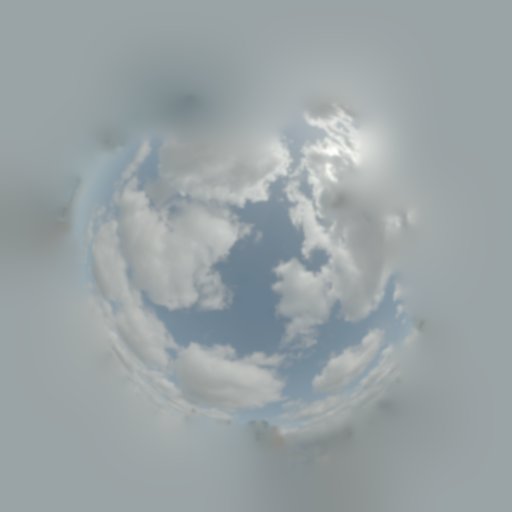
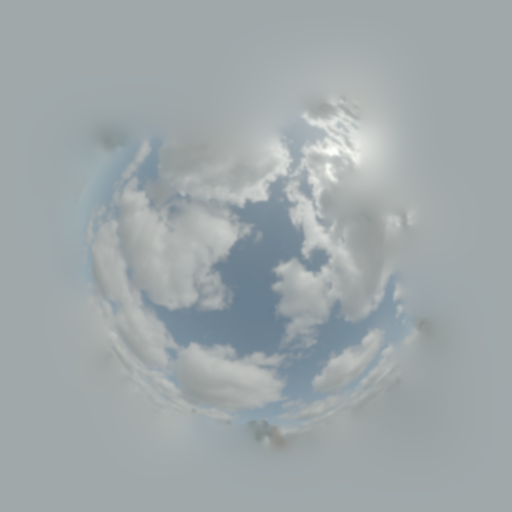
Lab: climb joiner round 3
Claude-Session: https://claude.ai/code/session_01RqENhngNCzDFmJWDZueXGV

diff --git a/src/app/lab/joiner/joinerEngine.js b/src/app/lab/joiner/joinerEngine.js
@@ -141,6 +141,24 @@ float skyWeight(vec2 uv, int r) {
   return smoothstep(0.3, 0.95, e);
 }
 
+// How far the open sky reaches from a structure, in plate pixels, read off
+// the same eroded matte out to r rings: each ring that is still clear of
+// structure adds its share (the ring's feathered weight), so the count runs
+// smoothly from 0 at a wall to r in open sky.
+float skyReach(vec2 uv, int r) {
+  vec2 t = 1.0 / vec2(textureSize(uMask, 0));
+  float e = texture(uMask, uv).r;
+  float n = 0.0;
+  for (int j = 1; j <= r; j++) {
+    for (int i = 0; i < 8; i++) {
+      float a = float(i) * 0.785398 + float(j) * 0.39;
+      e = min(e, texture(uMask, uv + vec2(cos(a), sin(a)) * t * float(j)).r);
+    }
+    n += smoothstep(0.3, 0.95, e);
+  }
+  return n;
+}
+
 void main() {
   vec2 s = vec2(vUv.x - 0.5, 0.5 - vUv.y) * 2.0 * uHalf;   // y down
   vec3 d = normalize(uC * uF + uR * s.x + uD * s.y);
@@ -167,6 +185,12 @@ void main() {
     vec3 moved = rad(texture(uCloud, uv2).rgb);
     vec3 still = rad(texture(uSky, uv).rgb);
     float cover = 1.0 - smoothstep(0.42, 0.6, (moved.b - moved.r) / (moved.b + 1e-4));
+    // The drifted deck knows nothing of the structures, so a cumulus moved
+    // up against a facade would end exactly on its outline as a white rim
+    // that traces the building. The cloud thins out over the last few plate
+    // pixels before any structure instead: there the open blue meets the
+    // wall, and the cloud edge lies a little off it, on its own shape.
+    cover *= smoothstep(1.0, 7.0, skyReach(uv, 7));
     vec3 sky = mix(still, moved, cover);
     // The structures' rims still hold the old sky: the anti-aliased edge, and
     // the band the eroded matte keeps back from a facade or a pole. Wherever
@@ -370,6 +394,9 @@ void main() {
   // is blurred over a disk about twelve plate pixels across before it is
   // used: a cloud's edge then thins out into the cobalt over the width a real
   // cumulus fringe has, instead of a paper cutout with a pale rim.
+  // Only taps on the sky matte count: a wall is no more cloud than it is
+  // blue, and read as cloud it would grade the strip of sky along every
+  // facade as a white rim that traces the building's outline.
   float aPix = clearKey(rawLin(vUv));
   float ak = aPix;
   float aw = 1.0;
@@ -378,8 +405,10 @@ void main() {
     float w = exp(-2.0 * float(j * j) / 9.0);
     for (int i = 0; i < 8; i++) {
       float a = float(i) * 0.785398 + float(j) * 0.26;
-      ak += w * clearKey(rawLin(vUv + r * vec2(cos(a), sin(a))));
-      aw += w;
+      vec2 p = vUv + r * vec2(cos(a), sin(a));
+      float wt = w * smoothstep(0.3, 0.9, texture(uRaw, p).a);
+      ak += wt * clearKey(rawLin(p));
+      aw += wt;
     }
   }
   ak /= aw;

diff --git a/tools/depth/bakes/joiner/holes.py b/tools/depth/bakes/joiner/holes.py
@@ -1,0 +1,266 @@
+# Fix the sky matte's topology: the replacement sky lands only in sky that is
+# actually open. segment.py, seal.py and grow.py work pixel by pixel, so the
+# matte still calls sky a good many enclosed islands that are no such thing:
+# the panes of a glass tower reflecting the Docklands sky, a slot of tinted
+# glazing in a facade. The engine repaints every one of them with the cumulus
+# deck, and on a print they read as flat sky-blue tiles pasted into the
+# glazing. Here the sky is taken apart into its connected components:
+#   - the open sky: the component round the zenith, kept as it is;
+#   - an enclosed island is kept only where its light is the old overcast's
+#     (overcast.webp, the Docklands plate's own sky filled under the
+#     structures): within about 0.3 stops in luminance and as low in chroma,
+#     so the real gaps in a crane lattice or a balcony rail stay sky. Glass
+#     that reflects the sky does so darker and tinted, and goes back to the
+#     structure with its own pixels; so does an island deep inside a facade
+#     (far from the open sky, with structure all round it), whatever its
+#     light, since a pane can reflect the overcast as bright as it is;
+#   - a speck of sky (under MINSKY plate px) whose edge is hard structure on
+#     more than TOUCH of its perimeter is no gap, only noise in a facade;
+#   - and the other way round, a fleck of structure wholly inside the open
+#     sky, small and with the overcast's light, is old sky the matte missed
+#     (it shows as a pale fleck floating in the new blue): it is given back;
+#   - and the old cloud the matte cut short of along a facade (bays) or left
+#     behind a rail (pockets), which shows as a white rim that traces the
+#     building, is given back to the open sky (see below).
+# overcast.webp is filled again from the new matte (skyplate.py's recipe, as
+# flip.py does), so the dark glass no longer feeds the rim reference.
+# Run last, after grow.py, seal.py and flip.py.
+# usage: python3 -I holes.py scene.webp mask.webp overcast.webp out-mask.webp out-overcast.webp [debug.png | -v]
+import sys, numpy as np, cv2
+from PIL import Image
+LO, HI, THMAX = -8.0, 5.0, 120.0
+LUMA = np.array([.2126, .7152, .0722], np.float32)
+DL = 0.3        # stops of luminance an open-sky island may sit from the overcast
+DC = 0.15       # stops of colour (log chroma against luminance) from it
+CHROMA = 0.15   # stops more chroma than the overcast it may carry
+DEEP = 10       # plate px of structure between an island and the open sky: a facade's
+RING = 0.85     # share of an island's 6 px ring that is structure, inside a facade
+MINSKY = 40     # plate px: a sky speck under this ...
+TOUCH = 0.7     # ... touching hard structure on more than this of its edge is dropped
+FLECK = 300     # plate px: a structure fleck inside the open sky under this may go back
+FLECK_DL = (-1.2, 2.0)  # stops from the overcast a fleck may sit: the overcast's own
+                # darker scud and its sunlit tops, never a lamp head or a bird
+FLECK_DC = 0.3  # stops of colour: a sunlit fleck is whiter than the overcast
+HARD = 0.1      # matte at or under this is hard structure
+BAY_REACH = 60  # plate px the open sky may be walked into the structure label
+BAY_EDGE = 0.3  # stops per plate px: a step across more than this is an outline
+BAY_DARK = 0.75 # stops under the sky beside it a pixel of old cloud may sit
+BAY_DEEP = 1.75 # ... and its grey underside, where it stands clear of the structure:
+BAY_OVER = 1.0  # stops over the mean of the structure round it
+BAY_WARM = 0.06  # warmth (r - b over r + b) the sunlit cloud by the sun reaches; paint
+                # and brick sit well over twice it, and the walk keeps 3 px off them
+BAY_CONTACT = 1.0  # contact with the open sky (px) over sqrt(area) a bay needs
+POCKET_MIN = 150  # plate px a pocket of old cloud needs (a lamp post's glint is smaller)
+POCKET_BRIGHT = 0.35  # stops over the sky beside it, on the whole
+POCKET_GAP = 3  # plate px from the sky (a rail's width)
+HORIZON = 89.4  # degrees from the zenith: the engine draws no sky past it (d.z > 0.01)
+
+scene = np.asarray(Image.open(sys.argv[1]).convert("RGB")).astype(np.float32) / 255
+m = np.asarray(Image.open(sys.argv[2]).convert("L")).astype(np.float32) / 255
+oc = np.asarray(Image.open(sys.argv[3]).convert("RGB")).astype(np.float32) / 255
+N = m.shape[0]
+logc = cv2.resize(LO + scene * (HI - LO), (N, N), interpolation=cv2.INTER_AREA)
+logo = cv2.resize(LO + oc * (HI - LO), (N, N), interpolation=cv2.INTER_CUBIC)
+ys, xs = np.mgrid[0:N, 0:N]
+th = np.hypot(xs + .5 - N / 2, ys + .5 - N / 2) / (N / 2) * THMAX
+disc = lambda r: cv2.getStructuringElement(cv2.MORPH_ELLIPSE, (2 * r + 1, 2 * r + 1))
+dil = lambda b, r: cv2.dilate(b.astype(np.uint8), disc(r)) > 0
+def labn_open(b):  # the connected piece of b at the zenith
+    _, l = cv2.connectedComponents(b.astype(np.uint8), connectivity=8)
+    return l == l[N // 2, N // 2]
+
+# the old sky's light at each pixel: luminance and colour against the overcast
+d = logc - logo
+dl = d @ LUMA
+cvec = d - dl[..., None]
+dch = (logc.max(-1) - logc.min(-1)) - (logo.max(-1) - logo.min(-1))
+
+sky = m > 0.5
+n, lab, st, _ = cv2.connectedComponentsWithStats(sky.astype(np.uint8), connectivity=8)
+area = st[:, cv2.CC_STAT_AREA].astype(np.float64)
+cnt = np.maximum(area, 1)
+mean = lambda x: np.bincount(lab.ravel(), x.ravel().astype(np.float64), n) / cnt
+# the open sky: the component at the zenith (and anything as big, if the
+# matte were ever split by a cable across the whole disk)
+main = np.zeros(n, bool)
+main[lab[N // 2, N // 2]] = True
+main[1:] |= area[1:] > 0.1 * area[lab[N // 2, N // 2]]
+main[0] = False
+opensky = main[lab]
+disk_area = np.pi * (N / 2) ** 2
+
+# how deep in structure each island sits: distance to the open sky, and the
+# share of a ring round it that is structure (another island counts as
+# structure here, so a pane among panes is still inside its facade)
+dist = cv2.distanceTransform((~opensky).astype(np.uint8), cv2.DIST_L2, 5)
+mind = np.full(n, np.inf)
+np.minimum.at(mind, lab.ravel(), dist.ravel())
+isl_any = sky & ~opensky
+ring_px = dil(isl_any, 6) & ~isl_any
+# per island ring share: label each ring pixel with the island it belongs to
+# (the nearest one, through a dilation of the label image)
+lab_isl = np.where(isl_any, lab, 0).astype(np.float32)
+near_lab = cv2.dilate(lab_isl, disc(6)).astype(np.int64)  # max label within 6 px
+rs = ring_px & (near_lab > 0)
+ring_n = np.bincount(near_lab[rs], minlength=n).astype(np.float64)
+ring_struct = np.bincount(near_lab[rs], (~opensky[rs]).astype(np.float64), minlength=n)
+ring_share = ring_struct / np.maximum(ring_n, 1)
+
+# an island's light is read on the whole (its mean against the overcast's), so
+# the dither and a ripple's texture do not count as colour
+mdl, mch = mean(dl), mean(dch)
+mcv = np.linalg.norm(np.stack([mean(cvec[..., i]) for i in range(3)], -1), axis=-1)
+matches = (np.abs(mdl) < DL) & (mcv < DC) & (mch < CHROMA)
+facade = (mind > DEEP) & (ring_share > RING) & (area < 0.005 * disk_area)
+keep = main | (matches & ~facade)
+keep[0] = False
+
+# sky specks touching hard structure on most of their edge
+hard = m <= HARD
+edge = dil(sky, 1) & ~sky
+# each edge pixel credited to the component next to it
+edge_lab = cv2.dilate(np.where(sky, lab, 0).astype(np.float32), np.ones((3, 3), np.uint8)).astype(np.int64)
+ee = edge & (edge_lab > 0)
+e_n = np.bincount(edge_lab[ee], minlength=n).astype(np.float64)
+e_hard = np.bincount(edge_lab[ee], hard[ee].astype(np.float64), minlength=n)
+speck = (area < MINSKY) & (e_hard / np.maximum(e_n, 1) > TOUCH) & ~main
+keep &= ~speck
+
+drop = sky & ~keep[lab]
+# the dropped islands' soft rims go with them (never the rim of kept sky)
+rim = dil(drop, 2) & ~dil(sky & keep[lab], 2) & (m <= 0.5)
+out = m.copy()
+out[drop | rim] = 0.0
+
+# Bays: old sky the matte left labelled structure along the open sky's edge.
+# Under the sun the Docklands cloud is bright and textured, and segment.py
+# cut the matte short of it by up to a few dozen pixels round a facade (the
+# balcony tower by the red brick), where grow.py's smoothness test refuses
+# it: under the new sky it shows as a strip of white old cloud that traces
+# the building's outline exactly. The open sky is walked into the structure
+# a pixel a step through pixels as light as the sky beside them (or the
+# overcast's, the brighter), never dark, painted or across an outline, and a
+# walked patch is given back only when it runs along the open sky (its
+# contact with it long against its size): a strip of old sky, not a pane of
+# glass that the walk reached round a corner of its frame.
+Y = logc @ LUMA
+Yo = logo @ LUMA
+cur_sky = out > 0.5
+nn, labn = cv2.connectedComponents(cur_sky.astype(np.uint8), connectivity=8)
+open2 = labn == labn[N // 2, N // 2]
+w2 = open2.astype(np.float32)
+bl = lambda x, s: cv2.GaussianBlur(x, (0, 0), s)
+Yl = bl(Y * w2, 10) / np.maximum(bl(w2, 10), 1e-4)
+yref = np.where(bl(w2, 10) > 0.02, np.maximum(Yl, Yo), Yo)
+Yb = bl(Y, 0.7)
+grad = np.hypot(cv2.Sobel(Yb, cv2.CV_32F, 1, 0, ksize=3), cv2.Sobel(Yb, cv2.CV_32F, 0, 1, ksize=3)) / 8
+lin = 2 ** logc
+red = (lin[..., 0] - lin[..., 2]) / (lin[..., 0] + lin[..., 2] + 1e-6)
+chroma = logc.max(-1) - logc.min(-1)
+ns_ = ~cur_sky
+# The outline test applies only on the darker side: inside the old cloud, lit
+# by the sun, its own texture is as sharp as an outline, and a wall's edge
+# always has a side darker than the sky.
+# The cloud's grey underside sits well under the bright cloud beside it, as
+# dark as a pale wall in shade; it is told from one by the structure round
+# it: a grey cloud by a facade is far lighter than the facade, while a pale
+# wall is no lighter than itself. So a pixel down to BAY_DARK under the sky
+# passes, and one down to BAY_DEEP only where it stands BAY_OVER over the
+# mean of the structure round it.
+wst = ns_.astype(np.float32)
+Yst = bl(Y * wst, 6) / np.maximum(bl(wst, 6), 1e-4)
+light = (Y > yref - BAY_DARK) | ((Y > yref - BAY_DEEP) & (Y > Yst + BAY_OVER))
+cand = ns_ & (th < HORIZON) & light & (chroma < 0.9) & (red < BAY_WARM) & ((grad < BAY_EDGE) | (Y > yref))
+cand &= ~dil((Y < yref - BAY_DEEP - 0.4) & ns_, 1) & ~dil((red > 2 * BAY_WARM) & ns_, 3)
+walk = open2.copy()
+for _ in range(BAY_REACH):
+    nxt = walk | (dil(walk, 1) & cand)
+    if (nxt == walk).all():
+        break
+    walk = nxt
+walked = walk & ~open2
+nb, labb, stb, _ = cv2.connectedComponentsWithStats(walked.astype(np.uint8), connectivity=8)
+touch_open = walked & (cv2.dilate(open2.astype(np.uint8), np.ones((3, 3), np.uint8)) > 0)
+contact = np.bincount(labb.ravel(), touch_open.ravel().astype(np.float64), nb)
+bay = contact / np.sqrt(np.maximum(stb[:, cv2.CC_STAT_AREA], 1)) >= BAY_CONTACT
+bay[0] = False
+bays = bay[labb]
+out[bays] = 1.0
+
+# Pockets: old cloud the walk could not reach, cut off from the open sky by a
+# rail or a cable a pixel wide, right by the sky (within POCKET_GAP px of
+# it) and brighter than the sky beside it on the whole. Glass never is: it
+# reflects the sky at less than its own light, so a pane by the sky reads
+# darker than it; only the sunlit cloud behind a balcony is brighter.
+rest = cand & ~walk
+npk, labp, stp, _ = cv2.connectedComponentsWithStats(rest.astype(np.uint8), connectivity=8)
+mrel = np.bincount(labp.ravel(), (Y - yref).ravel(), npk) / np.maximum(stp[:, cv2.CC_STAT_AREA], 1)
+dsky = cv2.distanceTransform((out <= 0.5).astype(np.uint8), cv2.DIST_L2, 5)
+mind_p = np.full(npk, np.inf)
+np.minimum.at(mind_p, labp.ravel(), dsky.ravel())
+pocket = (stp[:, cv2.CC_STAT_AREA] >= POCKET_MIN) & (mrel > POCKET_BRIGHT) & (mind_p <= POCKET_GAP)
+pocket[0] = False
+pockets = pocket[labp]
+out[pockets] = 1.0
+
+# Structure flecks floating in the open sky, with the old sky's light: specks
+# of the old cloud the matte missed, and those the bay walk left inside the
+# sky it gave back. Each one shows as a pale fleck in the new blue, and the
+# engine's eroded matte widens it by two plate pixels all round.
+sky = out > 0.5
+opensky = labn_open(sky)
+ns, lab2, st2, _ = cv2.connectedComponentsWithStats((~sky).astype(np.uint8), connectivity=8)
+cnt2 = np.maximum(st2[:, cv2.CC_STAT_AREA], 1).astype(np.float64)
+mean2 = lambda x: np.bincount(lab2.ravel(), x.ravel().astype(np.float64), ns) / cnt2
+# wholly inside the open sky: every pixel of its outer edge is open sky
+out_edge = dil(~sky, 1) & sky
+edge_lab2 = cv2.dilate(np.where(~sky, lab2, 0).astype(np.float32), np.ones((3, 3), np.uint8)).astype(np.int64)
+oe = out_edge & (edge_lab2 > 0)
+o_n = np.bincount(edge_lab2[oe], minlength=ns).astype(np.float64)
+o_open = np.bincount(edge_lab2[oe], opensky[oe].astype(np.float64), minlength=ns)
+abv = mean2(th < HORIZON)
+fleck = (st2[:, cv2.CC_STAT_AREA] < FLECK) & (o_open >= o_n) & (o_n > 0) & (abv > 0.99) \
+    & (mean2(dl) > FLECK_DL[0]) & (mean2(dl) < FLECK_DL[1]) & (np.linalg.norm(np.stack([mean2(cvec[..., i]) for i in range(3)], -1), axis=-1) < FLECK_DC) \
+    & (mean2(dch) < CHROMA)
+fleck[0] = False
+give = fleck[lab2]
+out[give] = 1.0
+out[dil(give, 1) & sky] = 1.0
+
+Image.fromarray(np.round(np.clip(out, 0, 1) * 255).astype(np.uint8)).save(sys.argv[4], lossless=True, quality=100, method=6)
+isl = np.arange(n)[(~main) & (np.arange(n) > 0)]
+print(f"sky components {n - 1}: open sky {int(area[main].sum())} px; islands {len(isl)}, "
+      f"kept {int(keep[isl].sum())} ({int(area[isl][keep[isl]].sum())} px), "
+      f"returned to structure {int((~keep[isl]).sum())} ({int(drop.sum())} px, rims {int((rim & ~drop).sum())} px): "
+      f"off the overcast {int((~matches[isl]).sum())}, in a facade {int((matches & facade)[isl].sum())}, specks {int((speck & matches & ~facade)[isl].sum())}")
+print(f"structure flecks in the open sky given back: {int(fleck.sum())} ({int(give.sum())} px)")
+print(f"bays of old sky along the open sky given back: {int(bay.sum())} of {nb - 1} walked patches ({int(bays.sum())} of {int(walked.sum())} px)")
+print(f"pockets of sunlit old cloud behind a rail given back: {int(pocket.sum())} ({int(pockets.sum())} px)")
+if "-v" in sys.argv:
+    for i in np.nonzero(fleck)[0]:
+        x, y = np.argwhere(lab2 == i).mean(0)[::-1]
+        print(f"  fleck {i}: {st2[i, cv2.CC_STAT_AREA]} px at ({x:.0f}, {y:.0f}), {mean2(dl)[i]:+.2f} stops")
+
+# overcast.webp again, skyplate.py's recipe on the new matte (as flip.py)
+def pushpull(img, w):
+    if min(w.shape) <= 4:
+        tot = (img * w[..., None]).sum((0, 1)) / max(w.sum(), 1e-6)
+        return np.broadcast_to(tot, img.shape).copy()
+    ws = cv2.resize(w, (w.shape[1] // 2, w.shape[0] // 2), interpolation=cv2.INTER_AREA)
+    iw = cv2.resize(img * w[..., None], (w.shape[1] // 2, w.shape[0] // 2), interpolation=cv2.INTER_AREA)
+    lo = pushpull(iw / np.maximum(ws, 1e-6)[..., None], np.minimum(ws * 4, 1))
+    up = cv2.resize(lo, (w.shape[1], w.shape[0]), interpolation=cv2.INTER_LINEAR)
+    return img * w[..., None] + up * (1 - w[..., None])
+wo = cv2.erode(np.clip((out - .9) / .1, 0, 1) ** 2, disc(4))
+NO = Image.open(sys.argv[3]).size[0]
+over = cv2.GaussianBlur(cv2.resize(pushpull(logc, wo), (NO, NO), interpolation=cv2.INTER_AREA), (0, 0), 1.0)
+Image.fromarray(np.clip(np.round((np.clip(over, LO, HI) - LO) / (HI - LO) * 255), 0, 255).astype(np.uint8)).save(sys.argv[5], lossless=True, quality=100, method=6)
+
+if len(sys.argv) > 6 and sys.argv[6] != "-v":  # debug: open sky (blue), kept islands (green), returned (red), flecks and bays given (yellow)
+    lin = 2 ** logc
+    x = lin / np.percentile(lin.mean(-1), 60) * .25
+    t = np.clip((x / (1 + x) * 1.6) ** (1 / 2.2), 0, 1)
+    o = t.copy()
+    for msk, c in ((opensky, (0, 0, .5)), (sky & keep[lab] & ~opensky, (0, .6, 0)), (drop, (.7, 0, 0)), (give, (.6, .6, 0)), (bays, (.6, .6, 0)), (pockets, (.6, .6, 0))):
+        o[msk] = o[msk] * .4 + np.array(c)
+    Image.fromarray((o * 255).astype(np.uint8)).save(sys.argv[6])
